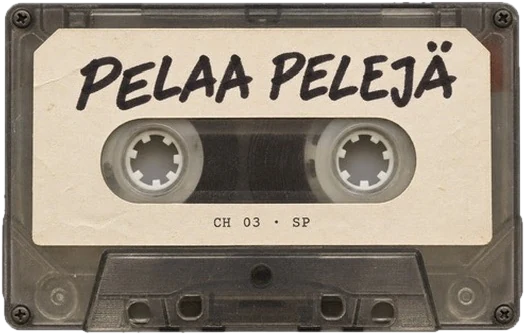
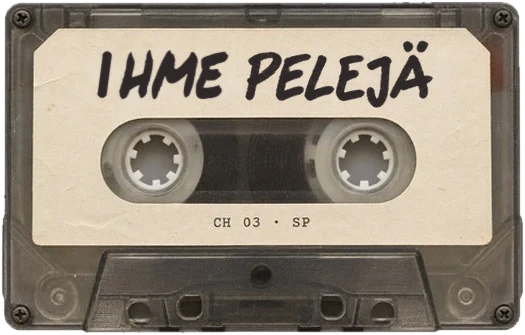
Kasetti: PELAA PELEJÄ -> IHME PELEJÄ
Claude-Session: https://claude.ai/code/session_01Apn64TiTv7WKoGWtyzjDCn

Changed region(s): [[0.1219, 0.1194, 0.8838, 0.3284]]

diff --git a/index.html b/index.html
@@ -344,8 +344,8 @@ body.paused main{animation:hold .12s steps(2) infinite}
         <img class="ghost c" src="assets/logo.png" alt="" aria-hidden="true">
       </h1>
       <p class="tagline">Kymmenen tikkuu · 13.11.2026</p>
-      <p class="playlink"><button class="tapebtn" id="ch03b" type="button" aria-label="Pelaa pelejä" aria-expanded="false" aria-controls="gamepick">
-        <span class="tapeimg"><img src="assets/tape.webp" alt="" width="525" height="335" decoding="async"><img class="reel" src="assets/tape_hub_l.webp" alt="" style="left:24.190%;top:39.701%;width:10.667%"><img class="reel" src="assets/tape_hub_r.webp" alt="" style="left:64.190%;top:39.403%;width:10.667%"></span>
+      <p class="playlink"><button class="tapebtn" id="ch03b" type="button" aria-label="Ihme pelejä" aria-expanded="false" aria-controls="gamepick">
+        <span class="tapeimg"><img src="assets/tape.webp?v=2" alt="" width="525" height="335" decoding="async"><img class="reel" src="assets/tape_hub_l.webp" alt="" style="left:24.190%;top:39.701%;width:10.667%"><img class="reel" src="assets/tape_hub_r.webp" alt="" style="left:64.190%;top:39.403%;width:10.667%"></span>
       </button></p>
       <div class="gamepick" id="gamepick" hidden>
         <button class="pick" id="pick02" type="button"><span class="img hthumb" style="background-image:url(assets/heita/thumb.jpg)" aria-hidden="true"></span><span class="ch">CH 02</span><span class="nm">Heitä Viistone</span></button>
